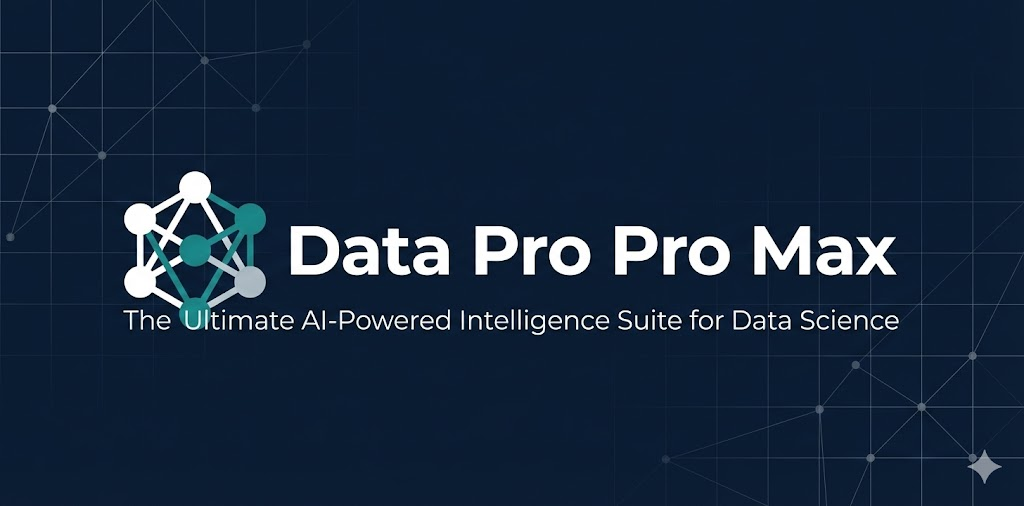
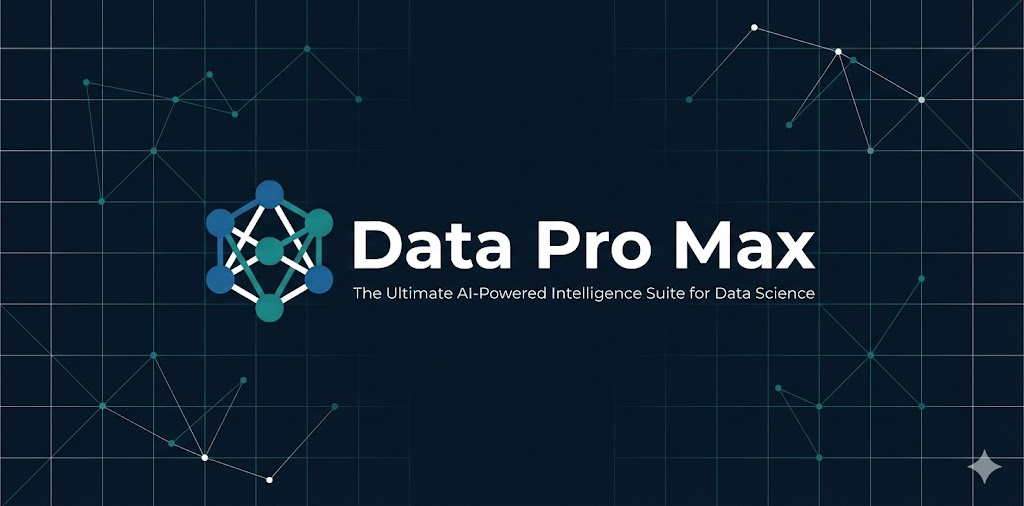
docs: Simplify project title in README from 'Data Pro Pro Max' to 'Data Pro Max' and update associated social images.

diff --git a/README.md b/README.md
@@ -1,6 +1,6 @@
 <div align="center">
   <img src=".github/images/logo_clean.png" alt="Data Pro Logo" width="200">
-  <h1>Data Pro Pro Max</h1>
+  <h1>Data Pro Max</h1>
   <p><b>The Ultimate AI-Powered Intelligence Suite for Data Science & Surveys</b></p>
   
   <p>
